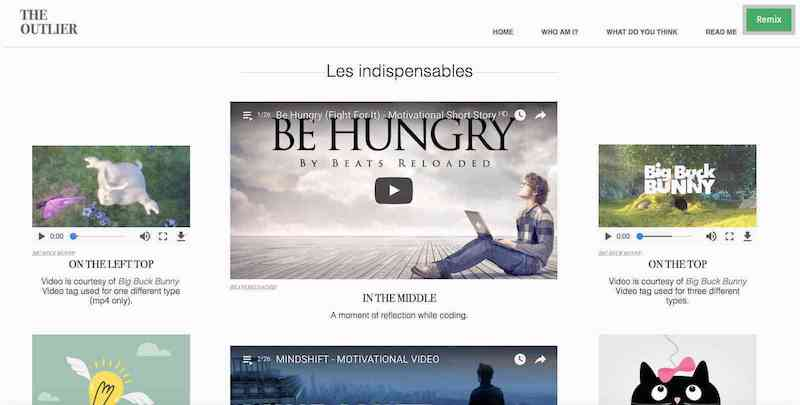
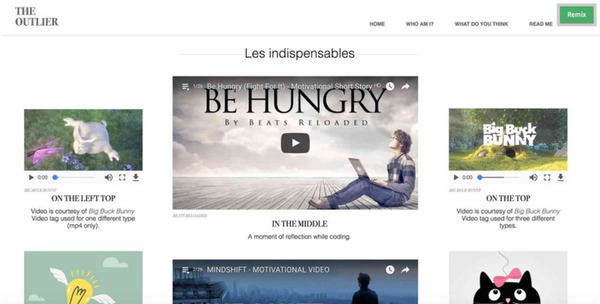
experimenting in terminal with media

diff --git a/Gruntfile.js b/Gruntfile.js
@@ -95,7 +95,7 @@ var mozjpeg = require('imagemin-mozjpeg');
 
   "imagemagick-convert" : {
     dev:{
-      args:['images/w_media-1600_large_2x.jpg', '-sampling-factor','2:1:0', 'images/w_media-1600_large_2x.jpg']
+      args:['images/w_media-1600_large_2x.jpg', '-compress','.jpeg','-quality','92','-sampling-factor','4:2:0', 'images/w_media-1600_large_2x.jpg']
     }
   },
 
